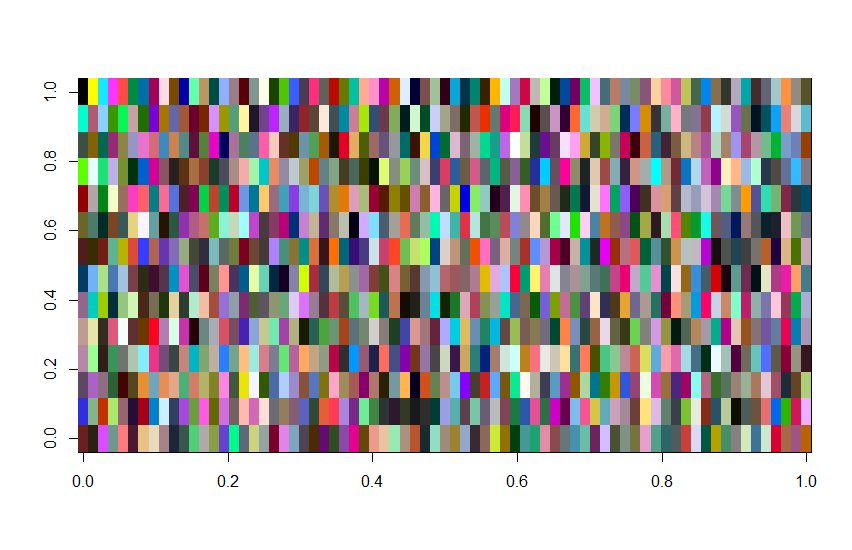
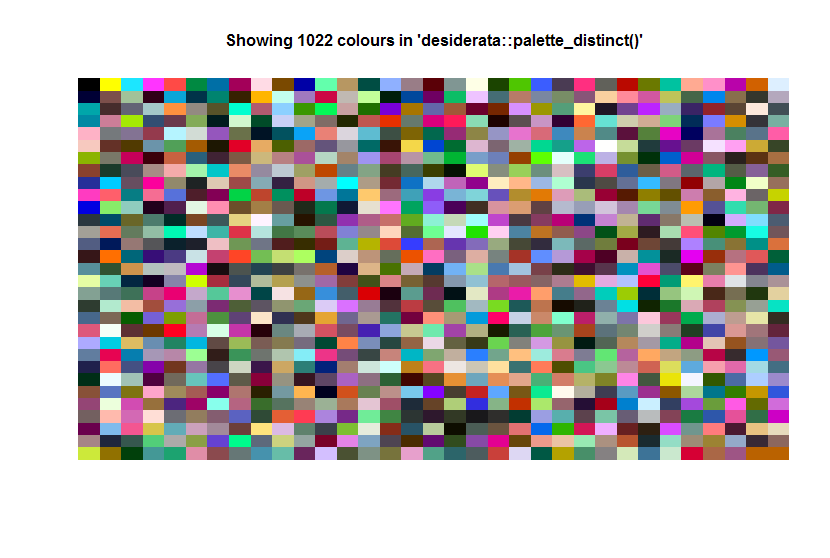
Update documentation

diff --git a/README.md b/README.md
@@ -33,6 +33,7 @@ abide by its terms.
     - Drop 'empty' columns in a dataframe (`drop_empty_cols()` - [example](#drop-empty-columns-in-a-dataframe))
     - Drop 'empty' rows in a dataframe (`drop_empty_rows()` - [example](#drop-empty-rows-in-a-dataframe))
     - Collapse a dataframe into a vector (`collapse_df()` - [example](#collapse-a-dataframe-into-a-vector))
+    - Sort columns of a dataframe by name (`sort_cols()` - [example](#sort-columns-of-a-dataframe-by-name))
     
 - **File system functions**
     - Load an RDS file and announce when it was created (`loadRDS()` - [example](#load-an-rds-file-and-announce-when-it-was-created))
@@ -45,18 +46,25 @@ abide by its terms.
     - Standard error of the mean (`se_mean()` - [example](#standard-error-of-the-mean))
     - Round a number to a fixed decimal place length (`round_to_places()` - [example](#round-a-number-to-a-fixed-decimal-place-length))
     - Round numbers to the nearest "pretty" value (`round_to_nearest()` - [example](#round-numbers-to-the-nearest-pretty-value))
-    - Seed the random number generator with a character string (or any object) (`set.seed.any()` - [example](#seed-the-random-number-generator-with-a-character-string-or-any-object))
+    - Seed the random number generator with a character string (or any object) (`set_seed_any()` - [example](#seed-the-random-number-generator-with-a-character-string-or-any-object))
     - Calculate degree-days (`degreedays()` - [example](#calculate-degree-days))
     - Normalise a matrix column-wise between 0 and 1 (`normalize_colwise()` - [example](#normalise-a-matrix-column-wise-between-0-and-1))
     - Normalise a whole matrix between 0 and 1 (`normalize_whole()` - [example](#normalise-a-whole-matrix-between-0-and-1))
     - Concatenate numbers together (`concat_nums()` - [example](#concatenate-numbers-together))
     - Quick percentile overview (`percentile()` - [example](#quick-percentile-overview))
+    - Mirror a matrix horizontally (`mirror_matrix()` - [example](#mirror-a-matrix-horizontally))
+    - Count the number of unique values in vectors (`howmany()` - [example](#count-the-number-of-unique-values-in-vectors))
+    - Is a number prime? (`is.prime()` - [example](#is-a-number-prime))
     
 - **Plotting functions**
     - Desi's `ggplot2` minimal base theme (`theme_desi_base()` - [example](#desis-ggplot2-minimal-base-theme))
+    - Plot colours as tiles (`show_colours()` - [example](#plot-colours-as-tiles))
     - A palette of 1,022 visually-distinct colours (`palette_distinct()` - [example](#a-palette-of-1022-visually-distinct-colours))
+    - A palette of Adam Morse's 16 web-safe colours (`palette_mrmrs()` - [example](#a-palette-of-adam-morses-16-web-safe-colours))
+    - A palette of hand-picked distinct colours (`palette_picked()` - [example](#a-palette-of-hand-picked-distinct-colours))
     - Rotate and align ggplot2 axis tick labels (`rotate_x_text()` and `rotate_y_text()` - [example](#rotate-and-align-ggplot2-axis-tick-labels))
     - Horizontally align ggplot2 title and subtitle (`align_titles()` - [example](#horizontally-align-ggplot2-title-and-subtitle))
+    - Rotate and align ggplot2 facet labels (`rotate_x_facet_text()` and `rotate_y_facet_text()` - [example](#rotate-and-align-ggplot2-facet-labels))
     
 - **Datetime tools**
     - Find the current month number relative to a starting date (`consecutive_month()` - [example](#find-the-current-month-number-relative-to-a-starting-date))
@@ -230,6 +238,31 @@ collapse_df(iris, cols = 1:4)
 
 #> [1] 5.1 4.9 4.7 4.6 5.0 5.4 4.6 5.0 4.4 4.9 5.4 4.8 ...
 ```
+
+### Sort columns of a dataframe by name
+
+Sorts the columns of a dataframe, and then allows you to pull columns to the start of the dataframe by name.
+
+``` r
+colnames(iris)
+#> [1] "Sepal.Length" "Sepal.Width"  "Petal.Length" "Petal.Width"  "Species"
+
+sorted <- sort_cols(iris)
+
+colnames(sorted)
+#> [1] "Petal.Length" "Petal.Width"  "Sepal.Length" "Sepal.Width"  "Species"
+
+reverse <- sort_cols(iris, decreasing = TRUE)
+
+colnames(reverse)
+#> [1] "Species"  "Sepal.Width"  "Sepal.Length" "Petal.Width"  "Petal.Length"
+
+manual <- sort_cols(iris, Species)
+
+colnames(manual)
+#> [1] "Species" " Petal.Length" "Petal.Width"  "Sepal.Length" "Sepal.Width"
+```
+
 
 ## File system functions
 
@@ -432,6 +465,55 @@ perc["66%"]
 #>   66%
 #> 22.54
 ```
+### Mirror a matrix horizontally
+
+``` r
+m <- matrix(1:6, ncol = 2, nrow = 3, byrow = FALSE)
+m
+
+#>      [,1] [,2]
+#> [1,]    1    4
+#> [2,]    2    5
+#> [3,]    3    6
+
+mirror_matrix(m)
+
+#>      V2 V1
+#> [1,]  4  1
+#> [2,]  5  2
+#> [3,]  6  3
+```
+
+### Count the number of unique values in vectors
+
+``` r
+my_vec <- sample(month.abb, 10, replace = TRUE)
+#> [1] "Sep" "Nov" "Nov" "Jul" "Oct" "May" "Jun" "Nov" "Apr" "Jan"
+
+howmany(my_vec)
+#> 6
+
+howmany(letters, LETTERS)
+#> 52
+```
+
+### Is a number prime?
+
+``` r
+is.prime(2)
+#> [1] TRUE
+
+is.prime(3)
+#> [1] TRUE
+
+is.prime(4)
+#> [1] FALSE
+
+is.prime(5)
+#> [1] TRUE
+```
+
+
 
 ## Plotting functions
 
@@ -443,12 +525,24 @@ ggplot(iris, aes(x = Petal.Length, y = Sepal.Length)) + geom_point() + theme_des
 
 ![](images/theme_desi_base.png)
 
+### Plot colours as tiles
+
+``` r
+show_colours(colours(distinct = TRUE))
+```
+
+![](images/base_colours.png)
+
 ### A palette of 1,022 visually-distinct colours
 
 ``` r
 # To see all of the colours (ordered left-to-right and top-to-bottom):
-image(apply(matrix(1022:1, ncol = 73, nrow = 14, byrow = TRUE), 1, rev), col = palette_distinct())
+show_colours(palette_distinct())
+```
 
+![](images/palette_distinct.png)
+
+``` r
 # To get the first 4 colours:
 palette_distinct(4)
 
@@ -458,9 +552,90 @@ palette_distinct(4)
 palette_distinct(4, random = TRUE)
 
 #> [1] "#2F2E2C" "#DFE3E6" "#5C424D" "#FFE47D"
+
+# To make the colours 75 percent opaque:
+palette_distinct(4, random = TRUE, alpha = 0.75)
+
+#> [1] "#4D913EBF" "#2A7FFFBF" "#830055BF" "#664327BF"
 ```
 
-![](images/palette_distinct.png)
+### A palette of Adam Morse's 16 web-safe colours
+
+This is a palette by Adam Morse, sourced from <https://clrs.cc/>.
+
+``` r
+# To see all of the colours (ordered left-to-right and top-to-bottom):
+show_colours(palette_mrmrs())
+```
+
+![](images/palette_mrmrs.png)
+
+``` r
+# The colours in the list are named
+names(palette_mrmrs())
+
+#> [1] "navy"    "blue"    "aqua"    "teal"    "olive"   "green"   "lime"    "yellow"
+#> [9] "orange"  "red"     "maroon"  "fuchsia" "purple"  "black"   "gray"    "silver"
+
+# To get the first 4 colours:
+palette_mrmrs(4)
+
+#>      navy      blue      aqua      teal
+#> "#001F3F" "#0074D9" "#7FDBFF" "#39CCCC"
+
+# To pick 4 colours randomly:
+palette_mrmrs(4, random = TRUE)
+
+#>    orange    maroon     olive   fuchsia
+#> "#FF851B" "#85144B" "#3D9970" "#F012BE"
+
+# To make the colours 75 percent opaque:
+palette_mrmrs(4, random = TRUE, alpha = 0.75)
+
+#>      orange      maroon       olive     fuchsia
+#> "#FF851BBF" "#85144BBF" "#3D9970BF" "#F012BEBF"
+```
+
+### A palette of hand-picked distinct colours
+
+The palette created by `desiderata::palette_distinct()` has a lot of colours that are either so dark or so light that it's difficult to differentiate them next to each other. In addition, many of the colours are affected by adjacency effects where they can be differentiated when they're next to each other, but not when they're next to a closely-related colour.
+
+I went through the preview plots manually, randomising the order of the colours each time and deleting any colours that were visually similar until I ended up with a list of colours that were easy to differentiate.
+
+``` r
+# To see all of the colours (ordered left-to-right and top-to-bottom):
+show_colours(palette_picked())
+```
+
+![](images/palette_picked.png)
+
+``` r
+# The colours in the list are named
+names(palette_picked())
+
+#>  [1] "darkslateblue" "darkseagreen"  "darkorchid"    "yellow"        "magenta"       "plum"
+#>  [7] "goldenrod"     "orangered"     "darkorange"    "skyblue"       "palegreen"     "dodgerblue"
+#> [13] "chartreuse"    "grey10"
+
+# To get the first 4 colours:
+palette_picked(4)
+
+#> darkslateblue  darkseagreen    darkorchid        yellow
+#>     "#004754"     "#00AE7E"     "#7E2DD2"     "#FFE502"
+
+# To pick 4 colours randomly:
+palette_picked(4, random = TRUE)
+
+#> dodgerblue   darkorchid darkseagreen    orangered
+#>  "#3B5DFF"    "#7E2DD2"    "#00AE7E"    "#BE0028"
+
+# To make the colours 75 percent opaque:
+palette_picked(4, random = TRUE, alpha = 0.75)
+
+#>  darkorange   goldenrod  darkorchid  chartreuse
+#> "#FF6832BF" "#FEC96DBF" "#7E2DD2BF" "#4FC601BF"
+```
+
 
 ### Rotate and align ggplot2 axis tick labels
 
@@ -485,6 +660,20 @@ ggplot(mpg, aes(manufacturer, cty)) + geom_boxplot() +
 ```
 ![](images/align_title.png)
 
+### Rotate and align ggplot2 facet labels
+
+``` r
+plot <- ggplot(mpg, aes(cty, hwy)) + geom_point() + facet_grid(year ~ fl)
+
+plot +
+   rotate_x_facet_text(angle = 45, align = 0.5) +
+   rotate_y_facet_text(angle = 0, valign = 0.5)
+```
+
+![](images/rotate_facet_text.png)
+
+
+
 ## Datetime tools
 
 ### Find the current month number relative to a starting date
@@ -499,6 +688,7 @@ consecutive_month(2015,         "2016-02-04")
 consecutive_month("2015-02-01", "2016-02-04")
 #> [1] 13
 ```
+
 
 ## String tools
 
